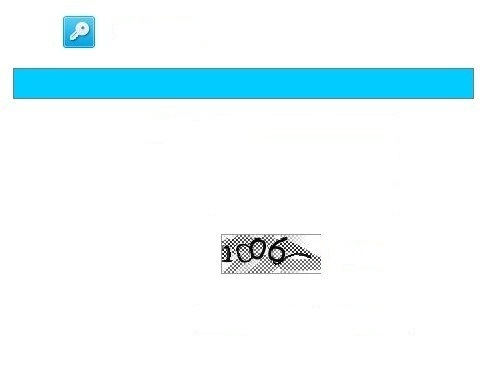
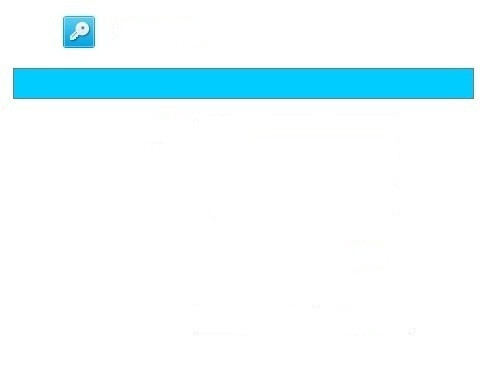
finish change password

Changed region(s): [[0.4277, 0.6193, 0.6721, 0.7373]]

diff --git a/MPM/src/cn/com/mwsn/mpm/action/system/ChangePswdAction.java b/MPM/src/cn/com/mwsn/mpm/action/system/ChangePswdAction.java
@@ -1,20 +1,39 @@
 package cn.com.mwsn.mpm.action.system;
 
+import java.util.List;
+
+import javax.servlet.http.HttpServletRequest;
+
 import org.apache.log4j.Logger;
+import org.apache.struts2.convention.annotation.Action;
+import org.apache.struts2.convention.annotation.ParentPackage;
 import org.apache.struts2.convention.annotation.Result;
 import org.apache.struts2.convention.annotation.Results;
+import org.springframework.beans.factory.annotation.Autowired;
 
 import cn.com.mwsn.frame.web.action.Struts2Utils;
 import cn.com.mwsn.mpm.action.mainpage.MainPageAction;
+import cn.com.mwsn.mpm.entity.User;
+import cn.com.mwsn.mpm.service.UserService;
 
 import com.opensymphony.xwork2.ActionSupport;
 
+@ParentPackage(value="json-default")
 @Results({
 	@Result(name="success",type="redirect", location="/mainpage/main-page.action"),
-	@Result(name="error", location = "/error/error.jsp")
+	@Result(name="error", location = "/error/error.jsp"),
 })
 public class ChangePswdAction extends ActionSupport {
+	
+	@Autowired
+	private UserService userService;
 
+	private String message;
+	
+	private String oldpswd;
+	
+	private String status;
+	
 	/**
 	 * 
 	 */
@@ -23,12 +42,76 @@ public class ChangePswdAction extends ActionSupport {
 
 	@Override
 	public String execute() throws Exception {
-		
+		HttpServletRequest request = Struts2Utils.getRequest();
 		String account = (String)Struts2Utils.getSession().getAttribute("account");
+		User user=userService.findBy(User.class, "account", account);
+		String password=null;
+		if(user!=null){
+			password=user.getPassword();
+		}
+		String oldpswd = request.getParameter("oldpswd");
+		String newpswd = request.getParameter("newpswd");
+		if(!oldpswd.equals(password)){
+			return this.ERROR;
+		}
+		try {
+			user.setPassword(newpswd);
+			userService.merge(user);
+		} catch (Exception e) {
+			e.printStackTrace();
+			return this.ERROR;
+		}
 		log.debug(account);
 		
 		
 		return this.SUCCESS;
 	}
+	
+	@Action(value = "validatePassword", results = { @Result(name = "validate_oldpswd", type = "json") }	)  
+	public String validateOldPassWord() throws Exception{
+		HttpServletRequest request = Struts2Utils.getRequest();
+		String oldpassword=request.getParameter("oldpswd");
+		String account = (String)Struts2Utils.getSession().getAttribute("account");
+		User user=userService.findBy(User.class, "account", account);
+		String password=null;
+		if(user!=null){
+			password=user.getPassword();
+		}
+		if(oldpassword.equals(password)){
+			status="success";
+			message="Right password!";
+		}else{
+			status="error_old_password";
+			message="Wrong password!";
+		}
+		
+		return "validate_oldpswd";
+	}
+
+	public String getMessage() {
+		return message;
+	}
+
+	public void setMessage(String message) {
+		this.message = message;
+	}
+
+	public String getOldpswd() {
+		return oldpswd;
+	}
+
+	public void setOldpswd(String oldpswd) {
+		this.oldpswd = oldpswd;
+	}
+
+	public String getStatus() {
+		return status;
+	}
+
+	public void setStatus(String status) {
+		this.status = status;
+	}
+	
+	
 
 }
